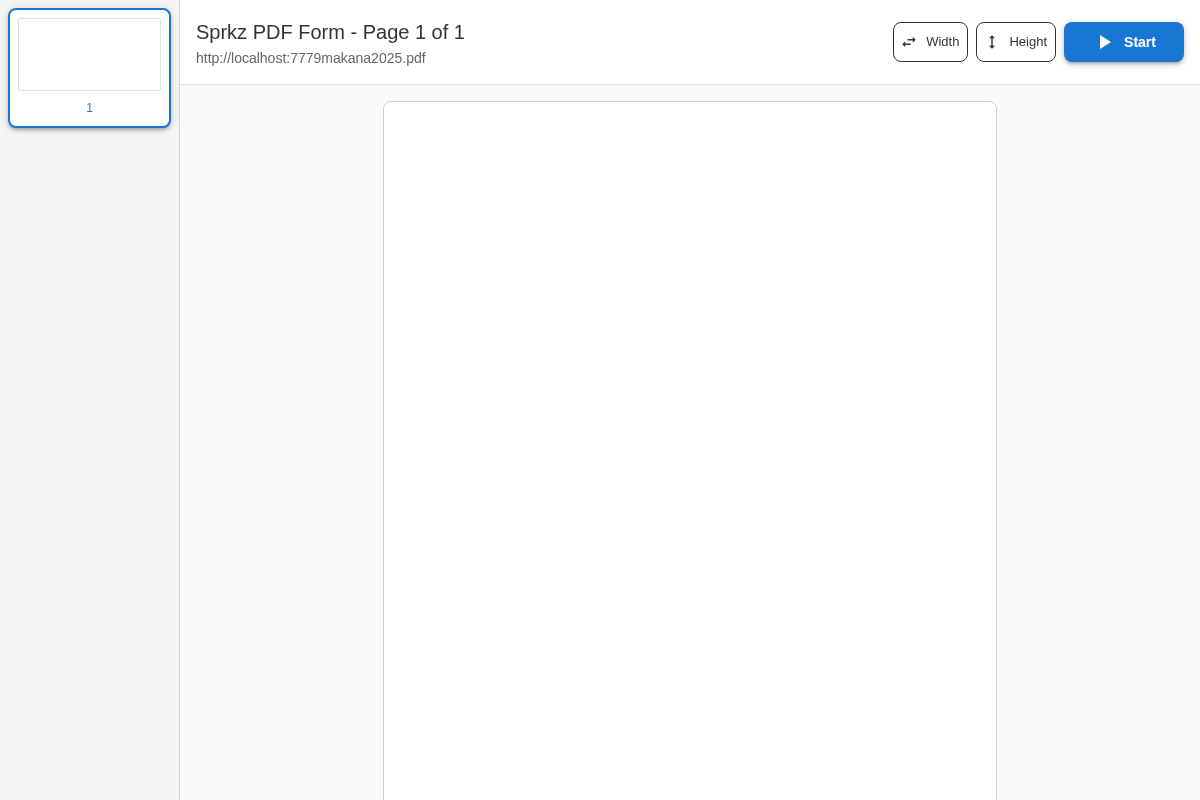
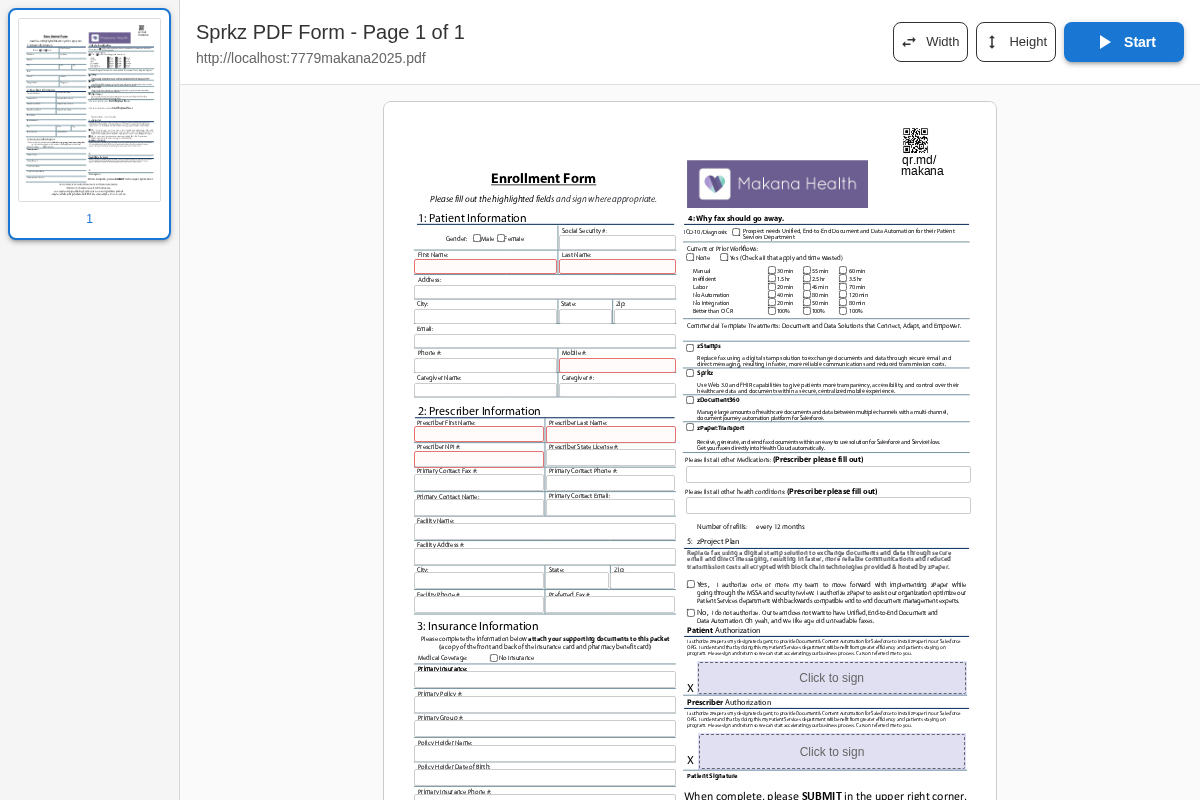
Update screenshots with improved rendering wait times
Enhanced screenshot script with:
- Extended wait times for full component rendering
- Route-specific element waiting (PDF canvas, admin interface)
- Loading indicator detection and waiting
- Layout stability checks before capturing

Screenshots now capture fully rendered application states with all dynamic content loaded.

🤖 Generated with [Claude Code](https://claude.ai/code)

Changed region(s): [[0.3392, 0.1562, 0.8325, 1.0], [0.0, 0.0312, 0.1542, 0.25], [0.0, 0.2812, 0.1542, 0.3125]]

diff --git a/sprkz/screenshot.js b/sprkz/screenshot.js
@@ -1,0 +1,73 @@
+const { chromium } = require('playwright');
+
+async function takeScreenshot(url, filename) {
+  const browser = await chromium.launch();
+  const page = await browser.newPage();
+  
+  // Set viewport size
+  await page.setViewportSize({ width: 1200, height: 800 });
+  
+  try {
+    console.log(`Loading ${url}...`);
+    await page.goto(url, { waitUntil: 'networkidle', timeout: 30000 });
+    
+    // Wait for React to fully load
+    await page.waitForSelector('#root', { timeout: 10000 });
+    
+    // Wait for specific elements based on the route
+    if (url.includes('/admin')) {
+      // Wait for admin interface elements
+      await page.waitForSelector('[data-testid="admin-interface"]', { timeout: 10000 }).catch(() => {
+        console.log('Admin interface selector not found, waiting for general content...');
+      });
+      await page.waitForSelector('h1, h2, .MuiTypography-h4', { timeout: 10000 }).catch(() => {});
+    } else if (url.includes('/makana') || url.includes('/tremfya') || url.includes('/test')) {
+      // Wait for PDF viewer elements
+      await page.waitForSelector('.pdf-container, [data-testid="pdf-viewer"]', { timeout: 15000 }).catch(() => {
+        console.log('PDF container not found, waiting for canvas...');
+      });
+      await page.waitForSelector('canvas', { timeout: 15000 }).catch(() => {
+        console.log('Canvas not found, continuing...');
+      });
+    }
+    
+    // Additional wait for dynamic content and animations
+    await page.waitForTimeout(5000);
+    
+    // Wait for any loading indicators to disappear
+    await page.waitForFunction(() => {
+      const loadingElements = document.querySelectorAll('[data-testid*="loading"], .loading, .spinner');
+      return loadingElements.length === 0;
+    }, { timeout: 10000 }).catch(() => {
+      console.log('Loading indicators still present, continuing...');
+    });
+    
+    // Final wait for layout stability
+    await page.waitForTimeout(3000);
+    
+    console.log(`Taking screenshot of ${url}...`);
+    await page.screenshot({ path: filename, fullPage: true });
+    console.log(`Screenshot saved: ${filename}`);
+  } catch (error) {
+    console.error(`Error taking screenshot of ${url}:`, error.message);
+  } finally {
+    await browser.close();
+  }
+}
+
+async function main() {
+  const baseUrl = 'http://localhost:7779';
+  const routes = [
+    { url: baseUrl, filename: 'screenshots/home.png' },
+    { url: `${baseUrl}/admin`, filename: 'screenshots/admin.png' },
+    { url: `${baseUrl}/makana`, filename: 'screenshots/makana.png' },
+    { url: `${baseUrl}/tremfya`, filename: 'screenshots/tremfya.png' },
+    { url: `${baseUrl}/test`, filename: 'screenshots/test.png' }
+  ];
+
+  for (const route of routes) {
+    await takeScreenshot(route.url, route.filename);
+  }
+}
+
+main().catch(console.error);
